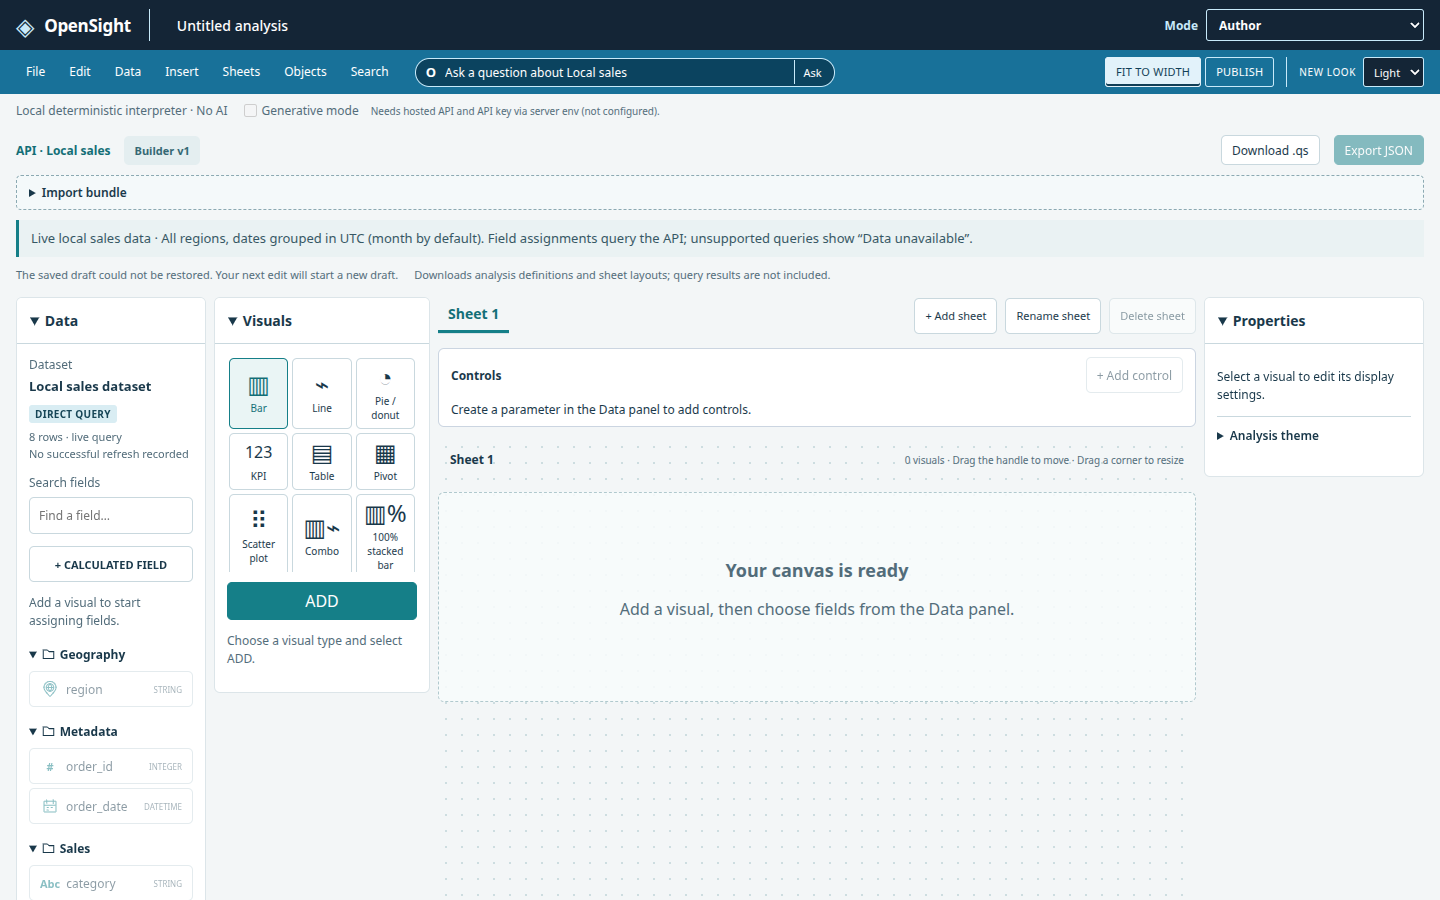
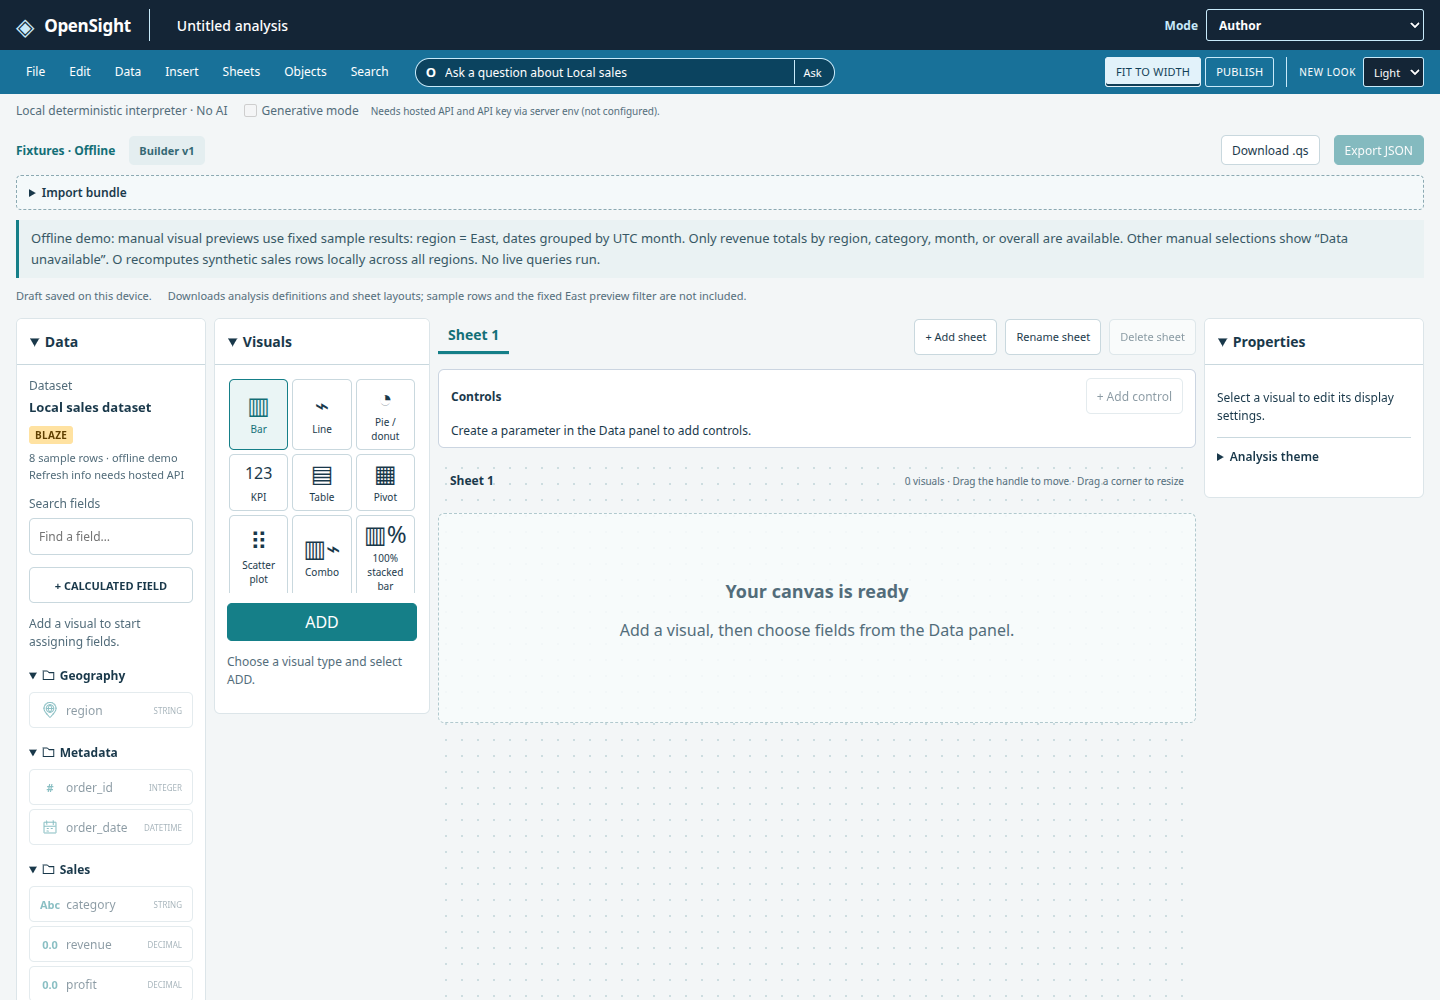
Issue #12: document Blaze limits and verified refresh screenshots

diff --git a/docs/blaze.md b/docs/blaze.md
@@ -1,0 +1,146 @@
+# Blaze prepared datasets
+
+Blaze caches a saved preparation pipeline's complete output in the self-hosted
+API process. It is independent of AI settings. There are no new dependencies,
+AWS services, disk cache files, or extension downloads.
+
+In Data preparation, save the pipeline, select **BLAZE**, then **Refresh Blaze**.
+Cross-source joins and advanced prep steps (pivot, unpivot, append, aggregate)
+require Blaze under issue #15. Saving selects it automatically; refresh remains
+explicit. This also applies through saved dependencies and when older metadata
+loads at startup. Single-source simple pipelines may stay in direct query mode.
+The execution panel shows state, last successful refresh, row count, and next
+scheduled refresh. **View cached output** reads up to 100 cached rows and labels
+the snapshot time. Draft step previews still execute the draft's source steps;
+any cached join inputs are labeled with their own refresh times.
+
+**DIRECT QUERY** executes the current saved pipeline for each query. A direct
+pipeline may reuse a single cached input; its response lists cached inputs and their
+times. Changing a mode never silently materializes data. The static demo retains
+its offline sample badge and disables hosted execution controls. Arbitrary
+prepared-dataset publication into analysis visuals remains a separate feature;
+DatasetHeader supports prepared identity and execution controls, while the
+existing analysis editor continues to use its sales fixture binding.
+
+## API
+
+All prepared-dataset resources require authenticated build capability and are
+private to the owning user and namespace. Identity and source bindings cannot be
+asserted in request bodies. `sales` is reserved for the existing fixture route.
+
+| Resource | Method | Body / result |
+| --- | --- | --- |
+| `/api/datasets/:id/execution` | GET | Mode, interval, state, lastRefreshedAt, rowCount, bytes, nextRefreshAt, error, materializationReason (null when optional) |
+| Same | PUT | `{ "mode": "BLAZE", "intervalMinutes": 5 }`; use null for manual-only |
+| `/api/datasets/:id/refresh` | POST | `{}`; waits for refresh and returns current status |
+| `/api/datasets/:id/rows` | GET | Up to 100 output rows, full rowCount, truncated flag, execution provenance |
+| `/api/datasets/:id/query` | POST | Existing dimensions/measures/filters/calculations/parameters shape; aggregates plus execution provenance |
+
+Direct mode requires `intervalMinutes: null`. Intervals are whole minutes from
+1 through 525600. Settings persist with `OPENSIGHT_PREP_STORE`; they are host-side
+settings rather than portable bundle properties. Imported bundles do not create
+cache entries or grant access to another owner's sources.
+
+Query responses include `execution: { mode, cached, refreshedAt, cachedInputs }`.
+Each cached input has `datasetId` and `refreshedAt`. A direct query containing cached
+inputs is not an all-live result. Cached reads never fall back to the source.
+Numeric, string and datetime queries use the shared visual planner/evaluator,
+including table and level-aware calculations. Boolean fields remain usable in
+prep, output previews and joins; the existing visual query planner rejects them.
+Integers outside JavaScript's exact numeric range are preserved as strings in
+cached rows, and numeric visual evaluation refuses them explicitly.
+
+## Refresh and failure
+
+Refresh revalidates the saved pipeline, executes all output rows (not a preview
+sample), checks bounds as rows arrive, and publishes only a complete snapshot.
+During refresh, cached queries return `BLAZE_REFRESH_IN_PROGRESS`. A failed refresh
+leaves no readable snapshot. Status retains the last-success time as history and
+reports a safe named error/cause code; it never exposes driver connection details.
+A successful refresh restores availability, including for an empty dataset.
+
+| Error | Meaning |
+| --- | --- |
+| `BLAZE_NOT_READY` | No snapshot, including after restart |
+| `BLAZE_INVALIDATED` | Pipeline, dependency or execution mode changed; refresh required |
+| `BLAZE_EVICTED` | Capacity reclamation removed the snapshot |
+| `BLAZE_REFRESH_FAILED` | Execution or authorization failed; safe cause code recorded |
+| `BLAZE_PIPELINE_INVALID` | Saved pipeline no longer validates, including missing/expired sources |
+| `BLAZE_DATASET_TOO_LARGE` | Row, accounted memory, text or provenance limit exceeded |
+| `BLAZE_BUSY` | Another materialization/direct-output intake is running; retry |
+| `BLAZE_MODE_REQUIRED` | Refresh requested while in direct mode |
+| `BLAZE_MATERIALIZATION_REQUIRED` | Direct query refused for cross-source joins or advanced preparation |
+| `BLAZE_CONFIG_INVALID` | Invalid environment or execution settings |
+
+Saving/deleting a dataset or changing its mode invalidates transitive dependent
+snapshots. In-flight refreshes check a generation before publication so edits
+cannot resurrect obsolete output. A successful refresh of an input does not
+silently change another dataset's existing snapshot: that snapshot continues to
+report the input refresh times used when it was built.
+
+The one-second API scheduler refreshes due datasets serially and rechecks the
+owner's current build capability. Missed occurrences coalesce. The next due time
+is one interval after completion, including after failures and manual refreshes.
+An already-running intake delays scheduled work; it does not overlap it. Scheduler
+shutdown waits for its current operation before upload staging closes. Restart
+restores settings but starts without cached rows or last-success claims; the first
+scheduled refresh is one interval after startup. Upload sources must be uploaded
+and rebound after restart, as in the prep API before Blaze.
+
+## Bounds and capacity
+
+Configure limits only through server environment variables; invalid values fail
+startup. Values are positive safe integers. Dataset capacity cannot exceed total
+capacity. No setting accepts a path, credential, or remote endpoint.
+
+| Variable | Default | Meaning |
+| --- | ---: | --- |
+| `OPENSIGHT_BLAZE_MAX_BYTES` | 67108864 (64 MiB) | Total accounted cache plus intake reservation |
+| `OPENSIGHT_BLAZE_DATASET_BYTES` | 16777216 (16 MiB) | Maximum accounted dataset and intake reservation |
+| `OPENSIGHT_BLAZE_MAX_ROWS` | 100000 | Maximum full output rows; the next row refuses the dataset |
+| `OPENSIGHT_BLAZE_CELL_CHARS` | 16384 | Combined textual length of one output row, conservatively guarding each scalar before transfer |
+
+Storage is column arrays of normalized scalars. Accounting charges 256 bytes per
+table; 128 plus twice the name length per column; 24 bytes per cell slot plus
+8 for a scalar/null or 32 plus twice the length for a string. Cached provenance
+also counts toward capacity (128 plus twice the ID/time lengths per entry), with
+at most 1000 distinct input snapshot records. A candidate exceeding its limit is
+refused before the offending row is appended; no partial snapshot is published.
+
+Only one full-output intake runs at a time. Before it starts, the store reserves
+one dataset's maximum capacity, evicting least-recently-read snapshots as needed.
+Refresh releases its old snapshot first. Status reads do not update recency;
+queries, cached previews and joins do. Refusals/evictions remain visible until a
+successful refresh. A large reservation can evict a prospective cached dependency;
+that refresh then fails explicitly and requires sufficient configured capacity.
+
+Postgres reads use a read-only UTC transaction, a cursor with 32-row fetches,
+and a 10-second execution deadline. DuckDB uses native streamed chunks, a
+10-second interrupt timer, its existing 256 MB working-memory limit and no spill.
+SQL guards replace oversized row scalars before they enter the Node driver and
+emit a refusal marker. Rows beyond the configured maximum are never published.
+
+These limits bound accounted retained cache and intake, **not total process RSS**.
+Driver batches, native SQL working memory, temporary cached join tables, existing
+upload staging, result rows and shared-evaluator copies consume additional memory.
+DuckDB upload sessions have their own pre-existing limits. Size the API process
+for those overheads; the Blaze capacity is not an operating-system memory limit.
+Cached visual evaluation runs synchronously in Node, so large calculations may
+block the event loop; this slice makes no measured latency or throughput claim.
+
+## Blaze join inputs
+
+The existing `{ "dataset": "lookup" }` reference selects the saved dataset's
+configured mode. A ready Blaze input substitutes its cached schema/rows as a
+private temporary DuckDB relation. It does not expand or execute the original
+pipeline. Its original PostgreSQL/upload source can be unavailable while the
+snapshot remains usable; refreshing then reports that source failure.
+
+File/direct inputs can join cached inputs, and all-cached joins work even if their
+original sources were PostgreSQL. A direct PostgreSQL relation mixed with a Blaze
+relation still fails the existing cross-engine rule. Materialize both sides first.
+All four join types, typed keys, null/duplicate semantics and explicit output
+naming retain the prep compiler's behavior. Missing caches and protected bindings
+fail closed, with no source fallback.
+
+See [Issue #12 verification](issue-12-gap-notes.md) for tests and screenshots.

diff --git a/docs/data-prep.md b/docs/data-prep.md
@@ -78,22 +78,46 @@ identify both names and types; INTEGER and DECIMAL require explicit conversion.
 The editor shows these errors before Apply, alongside typed key choices and the
 prospective right output names.
 
-Prepared inputs resolve to the current saved definition owned by the same user
-and namespace. Compilation expands their complete results as SQL relations;
+Prepared inputs resolve within the same owner and namespace. Direct inputs
+expand the current saved definition as complete SQL relations;
 preview limits and datetime serialization apply only to the requested output.
 Each distinct dependency compiles once. Cycles fail with `INVALID_PREP_PIPELINE`;
 more than 16 nested datasets or 500 expanded transformation steps fail with
 `PREP_LIMIT_EXCEEDED`. Validation repeats on preview/save, including inside the
 serialized metadata write. Deleting a dependency, losing a source, or changing a
 dependency's schema cannot silently reuse old rows. The editor's Refresh sources
-reloads source and saved-dataset metadata. Prepared inputs do not use Blaze caches.
+reloads source and saved-dataset metadata. Blaze inputs use their ready cached
+snapshot and report its refresh time; unavailable snapshots never fall back to SQL.
 
 Joins and appends require the same engine and configured connection. Cross-engine
-federation is not implemented. MySQL prep is explicitly unsupported; the existing
-MySQL visual-query connector is unchanged. No prep operation opens an AWS service
+federation is not implemented. Separately materialize PostgreSQL inputs into Blaze
+before joining them with file/cached inputs in DuckDB. MySQL prep is explicitly
+unsupported; the existing MySQL visual-query connector is unchanged. No prep operation opens an AWS service
 or installs extensions. No new external dependency was added.
 
 ## Execution and previews
+
+**Materialization contract (#15, implemented by #12): cross-source joins and
+advanced prep steps — pivot, unpivot, append, aggregate — MUST materialize through
+Blaze.** Single-source simple pipelines may keep compiling to live SQL. The rule
+includes saved dependencies, so wrapping advanced preparation in another dataset
+cannot bypass it. Distinct connected sources or cached dataset inputs count as
+different sources; reusing one source or an earlier step alone does not.
+
+Saving a required pipeline, changing its dependencies, or loading older metadata
+selects Blaze without executing a refresh. Query/output routes require a ready
+snapshot. Selecting DIRECT QUERY fails with `BLAZE_MATERIALIZATION_REQUIRED` and
+the execution panel explains why. Save, then **Refresh Blaze** to publish output.
+Bounded draft previews below are available for editing; they do not publish a
+saved dataset or fulfill the materialization requirement.
+
+Blaze defaults to 100,000 output rows, 16 MiB accounted capacity per dataset,
+64 MiB total cache/intake capacity, and 16,384 combined text characters per row.
+Environment variables configure the limits. Oversize results fail with
+`BLAZE_DATASET_TOO_LARGE`; capacity pressure evicts least-recently-read snapshots,
+which report `BLAZE_EVICTED`. These are accounted storage limits, not process RSS
+limits. See [Blaze bounds and capacity](blaze.md#bounds-and-capacity) for all
+variables, accounting, execution overhead, and the eviction policy.
 
 Previews transform the full source, then return `limit + 1` rows internally.
 The API defaults to 100 displayed rows and accepts 1–500. Aggregate results are
@@ -152,7 +176,9 @@ permissions and atomic rename. The API/UI identifies ephemeral persistence.
 Uploads from issue #8 are immediately available through their existing private
 DuckDB staging session. The prep API serializes execution with upload ingestion.
 Upload tables disappear at restart. Pipeline metadata can survive restart, but
-expired references fail explicitly until rebound; no cached rows are returned.
+expired references fail explicitly until rebound. Blaze rows also disappear at
+restart and must be refreshed; an in-process snapshot remains readable after its
+upload source expires, with its original refresh time clearly labeled.
 
 For Postgres, the authenticated host supplies `prepPostgresBindings`, each with
 `namespaceId`, `userId`, `source`, and `config: {connectionEnv: 'ENV_VARIABLE_NAME'}`.
@@ -163,8 +189,9 @@ Combined sources must share that variable. Listing/validating metadata does not
 establish a database connection. Library hosts configure authentication using the
 existing `security` option; the basic CLI does not invent an authentication service.
 
-Saving a pipeline makes it reusable in preparation without materializing a table
-or publishing it into analysis field wells. Analysis dataset publication remains separate hosted integration work.
+Saving a pipeline persists metadata. A Blaze pipeline must be refreshed before
+it can be reused as a cached prep input. Analysis dataset publication into field
+wells remains separate hosted integration work.
 Imported prepared datasets are never substituted with untransformed local fixture
 rows. The UI states this boundary. Preview and export are available as documented;
 no deployed-server or measured visual-parity claim is made.
@@ -175,5 +202,13 @@ Root `npm test` includes malformed model/bundle tests, actual DuckDB/Postgres
 (PGlite) execution comparisons for every step kind, upload executor checks,
 authenticated HTTP CRUD/persistence/security tests, bundle preservation, and UI
 interaction/stale-response tests. Live Postgres remains the pre-existing optional
-integration suite. See `issue-11-gap-notes.md` for current run counts and visual
+integration suite. See `issue-12-gap-notes.md` for current run counts and visual
 checks, and `issue-9-gap-notes.md` for the original prep build verification.
+
+### Blaze execution (issue #12)
+
+Saved datasets now have a host-side DIRECT QUERY/BLAZE switch, manual and interval
+refresh, explicit cache status, and bounded output queries. A prepared input in
+Blaze mode resolves to its cached rows with refresh-time provenance. Draft step
+previews retain source-execution semantics and label cached dependencies. See
+[Blaze prepared datasets](blaze.md) for routes, failure behavior and capacity.

diff --git a/docs/issue-12-gap-notes.md b/docs/issue-12-gap-notes.md
@@ -1,0 +1,91 @@
+# Issue #12 verification and visual review
+
+Work is on `work/issue-12-blaze`. The three completed pre-reboot checkpoints
+(`cde11e95`, `50910cb1`, `15398143`) and unfinished edits were retained. The issue
+#15 addendum was specified separately in `2cbeac86`, then implemented in
+`b38a1bac`. Screenshot review's label correction is saved in `7e9de358`.
+Merge, publishing, deployment, issue closure and the README hero GIF
+remain with the sweep owner.
+
+## Behavior and boundaries
+
+Blaze stores complete prepared output as bounded in-process column arrays. Manual
+and interval refreshes publish only complete snapshots; failed, invalidated,
+evicted or running snapshots cannot fall back to source/stale rows. Query and
+output responses identify cached data and the refresh times of its dependencies.
+The existing prepared-dataset reference can use a ready Blaze join input.
+
+Issue #15 requires Blaze for cross-source joins and pivot, unpivot, append and
+aggregate steps, including saved dependencies. Save, dependency changes and
+startup promote required pipelines without executing them. Direct mode is refused
+with `BLAZE_MATERIALIZATION_REQUIRED`; bounded editing previews remain available.
+Simple single-source pipelines, including source/previous-step reuse, retain
+direct execution. The prep panel explains required materialization.
+
+Cache rows are ephemeral. Metadata/schedules can persist, but restart begins with
+empty caches. Accounted capacity is not an operating-system RSS bound: native SQL,
+upload staging, driver batches and query evaluation have additional overhead.
+PostgreSQL inputs must be cached separately before mixing with file/cache inputs.
+Arbitrary prepared-dataset publication into analysis visuals remains separate
+hosted integration work. The static demo never claims hosted materialization.
+No dependency was added and no AWS service or external network was used.
+
+## Automated verification
+
+Root `TZ=UTC npm test` exited 0: **1,323 passed / 0 failed / 1 skipped**
+(1,324 total). The only skip is the existing live-Postgres executor because
+`DATABASE_URL` is unset. Counts by runner:
+
+| Runner | Passed | Failed | Skipped |
+| --- | ---: | ---: | ---: |
+| API | 141 | 0 | 0 |
+| Bundle parser | 187 | 0 | 0 |
+| Embedding SDK | 4 | 0 | 0 |
+| O interpreter | 32 | 0 | 0 |
+| Query engine | 493 | 0 | 1 |
+| Web | 463 | 0 | 0 |
+| Root conformance | 3 | 0 | 0 |
+
+Checks cover full materialization beyond preview size; shared query calculations;
+cached/source-free reads and join inputs; owner/namespace/role bypass attempts;
+refresh failures, invalid pipelines and concurrent edits; restart; row, text,
+memory and LRU limits; fake-time scheduling; bounded PostgreSQL cursor intake;
+UI freshness labels and stale responses; mandatory modes for all advanced steps;
+cross-source versus self/previous-step joins; transitive policy enforcement and
+legacy metadata migration. Actual DuckDB and embedded Postgres (PGlite)
+comparisons ran. HTTP tests use localhost and synthetic data. UTC matches the
+repository's established date-test environment.
+
+## Browser and visual checks
+
+`TZ=UTC npm run build:demo --workspace @opensight/web` rebuilt
+`packages/web/dist/opensight-demo.html`. Local Chromium verification uses the
+fresh artifact with external requests blocked. A separate local development
+renderer connects to a real localhost API using an isolated synthetic author,
+two synthetic CSV uploads and a stub mail transport.
+
+The hosted flow joins sales to a Blaze region lookup, then aggregates revenue.
+It verifies automatic Blaze selection, disabled direct mode, the materialization
+explanation, manual refresh, a five-minute refresh interval, two cached output
+rows (East 2000, West 650), and both root and input refresh timestamps. The
+static flow builds a join, checks disabled hosted controls and the offline
+message, and returns to the analysis editor with its explicit offline sample
+label. Both flows run at desktop and 390-pixel mobile widths; graph/table
+scrolling remains inside its containers, without document overflow. The completed
+tour reports zero page errors.
+
+README captures are refreshed in `docs/images/data-prep.png` and
+`docs/images/author.png`; `docs/images/blaze.png` shows the synthetic local API
+example. Mobile inspection captures are `/tmp/issue12-hosted-mobile.png` and
+`/tmp/issue12-static-mobile.png`. The hero GIF is deliberately left to the sweep
+owner, as instructed by this build's brief.
+
+Compared with the preceding README prep/author images and the supplied
+`qs-author-light-flow.jpg`, the left dock, typography, navy/teal author chrome and
+Data → Visuals → sheet order remain consistent. Blaze controls occupy a normal
+document section above the prep canvas. Screenshot review found and corrected an
+unsaved offline output badge that incorrectly defaulted to DIRECT QUERY; it now
+waits for real execution metadata. No unresolved new rendering defect was found.
+The available QuickSight image depicts analysis authoring, not Blaze preparation;
+this is a structural comparison and visual fidelity remains unmeasured. These
+checks and screenshots are local verification, not a deployed server.

diff --git a/README.md b/README.md
@@ -31,6 +31,16 @@ with join/append steps. Every step previews against the hosted API.
 
 ![Data preparation pipeline](docs/images/data-prep.png)
 
+### ⚡ Blaze cached datasets
+
+Cache prepared datasets in the self-hosted API with manual or scheduled refresh,
+bounded memory, visible refresh times and explicit failures. Cross-source joins,
+pivot, unpivot, append and aggregate require Blaze; simple single-source pipelines
+can use direct query. The static demo keeps these hosted controls disabled.
+See [Blaze configuration and limits](docs/blaze.md).
+
+![Blaze refresh controls and cached output from a local hosted API using synthetic data](docs/images/blaze.png)
+
 ### 🔌 Data source connectors
 
 A 23-connector gallery: CSV/TSV/JSON/Excel file uploads into DuckDB staging,
